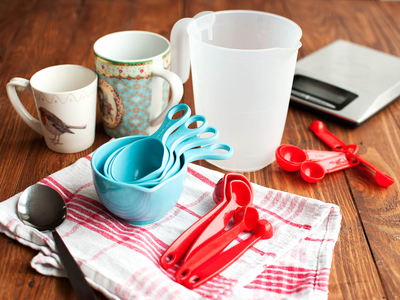
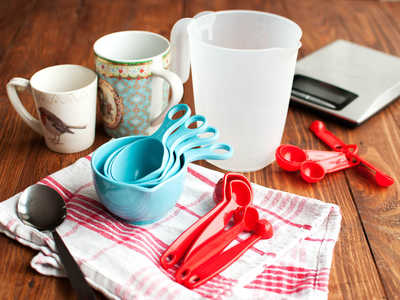
responsive images update

diff --git a/index.html b/index.html
@@ -18,16 +18,17 @@
 </head>
 
 <body>
-  <div class="flex_container">
+  <div class="flex-container">
     <header>
-        <figure class="logo">
+        <figure class="header-photo">
           <img class="big-photo"
-          src="img/pexels-photo.jpg"
-          sizes="(max-width: 500px) 100vw, 80vw"
-          srcset="images/pexels-photo-small.jpg 800w,
-          images/pexels-photo-large.jpg 800w" alt="Laptop keyboard" />
+            src="img/pexels-photo.jpg"
+            sizes="(max-width: 800px) 100vw, 80vw"
+            srcset="images/pexels-photo-medium.jpg 800w,
+                    images/pexels-photo-large.jpg 800w"
+            alt="Laptop keyboard"/>
         </figure>
-        <div class="header_text">
+        <div class="header-text">
           <h1>Judy Zaratan</h1>
           <h5>Full Stack Software Engineer</h5>
         </div>
@@ -45,17 +46,27 @@
       <h2>Featured Work</h2>
       <div class="pictures">
         <figure id="app1"class="app">
-            <img src="images/coffee-small.jpg" alt="Latte cup on table">
+            <img src="img/coffee.jpg"
+            sizes="30vw"
+            srcset="images/coffee-small.jpg 400w,
+                   images/coffee-large.jpg 800w"
+            alt="Latte cup on table">
           <figcaption>Coffee</figcaption>
         </figure>
         <figure id="app2" class="app">
-            <img src="images/bake_measurements-small.jpg" alt="Baking measurement
-            cups and spoons">
+            <img src="img/bake_measurements.jpg"
+            sizes="30vw"
+            srcset="images/bake_measurements-small.jpg 400w,
+                   images/bake_measurements-large.jpg 800w"
+            alt="Baking measurement cups and spoons">
           <figcaption>Bakery</figcaption>
         </figure>
         <figure id="app3" class="app">
-            <img src="images/camera-keys-small.jpg" alt="Vintage camera
-            positioned on piano keys">
+            <img src="img/camera-keys.jpg"
+            sizes="30vw"
+            srcset="images/camera-keys-small.jpg 400w,
+                   images/camera-keys-large.jpg 800w"
+            alt="Vintage camera positioned on piano keys">
           <figcaption>Capture</figcaption>
         </figure>
       </div>
@@ -63,20 +74,20 @@
 
     <section id="about">
       <h2>About Me</h2>
-      <p class="about_text">Lorem ipsum dolor sit amet, consectetur adipiscing elit, sed do
+      <p class="about-text">Lorem ipsum dolor sit amet, consectetur adipiscing elit, sed do
         eiusmod tempor incididunt ut labore et dolore magna aliqua. Ut enimad
         minim veniam, quis nostrud exercitation ullamco laboris nisi ut aliquip
         ex ea commodo consequat. Duis aute irure dolor in reprehenderit in
         voluptate velit esse cillum dolore eu fugiat nulla pariatur. Excepteur
         sint occaecat cupidatat non proident, sunt in culpa qui officia deserunt
-         mollit anim id est laborum.</p>
+        mollit anim id est laborum.</p>
     </section>
 
     <footer id="contact">
       <h2>Contact Me</h2>
-      <div class="social_icons">
+      <div class="social-icons">
         <a class="fa fa-4x fa-linkedin-square" href="#"></a>
-        <a class="fa fa-4x fa-github" href="#"> </a>
+        <a class="fa fa-4x fa-github" href="#"></a>
         <a class="fa fa-4x fa-codepen" href="#"></a>
       </div>
     </footer>

diff --git a/css/styles.css b/css/styles.css
@@ -1,14 +1,14 @@
-
 html, body {
   max-width: 100%;
   max-height: 100%;
-  margin: 0 0 0 0 ;
+  margin: 0;
+  text-align: center;
 }
 
 body {
-    color: #2d3c49;
-    font-family: 'Quicksand', sans-serif;
-    font-weight: 400;
+  color: #2d3c49;
+  font-family: 'Quicksand', sans-serif;
+  font-weight: 400;
 }
 
 img {
@@ -17,12 +17,7 @@ img {
 }
 
 h2, figcaption {
-  text-align: center;
   color: #02b3e4;
-}
-
-nav, footer {
-  text-align: center;
 }
 
 ul {
@@ -34,6 +29,7 @@ ul {
 figcaption > a {
   font-size: 0.5em;
 }
+
 li {
   display: inline;
   padding-right: 10%;
@@ -42,6 +38,7 @@ li {
 li:last-of-type {
   padding-right: 0;
 }
+
 a {
   text-decoration: none;
   color: #2D3C49;
@@ -50,24 +47,22 @@ a {
 a:hover {
   color: #7d97ad;
 }
-
-h5 {
-  margin: 0 0 0 0;
+h1, h5 {
+  margin: .1em 0 .1em 0 ;  
 }
 h1 {
-  margin: 0.1em 0 0.1em 0 ;
+
   color: #02b3e4;
 }
+
 img {
-  margin-right: auto;
+  margin-right: auto;;
   margin-left: auto;
   display: block;
 }
 
-
-.header_text {
+.header-text {
   font-size: 1.2em;
-  text-align: center;
 }
 
 a.fa {
@@ -78,58 +73,69 @@ a.fa:last-of-type{
   margin-right: 0;
 }
 
-.flex_container {
+.flex-container {
   display: flex;
   flex-direction: column;
   flex-wrap: nowrap;
   justify-content: center;
 }
+
 .pictures {
   display: flex;
   flex-wrap: wrap;
   justify-content: center;
 }
+
 .uppercase {
   text-transform: uppercase;
 }
 
+/*Media Queries*/
 @media screen and (max-width: 400px) {
-  .logo {
+  .header-photo {
     margin: 0 auto 0 auto;
   }
+
  .big-photo {
    width: 100%;
  }
+
   .pictures {
     flex-direction: column;
   }
-  .about_text {
+
+  .about-text {
     text-align: justify;
     margin: 0 3em 0 3em;
   }
 }
 
 @media screen and (min-width: 401px) and (max-width: 800px)  {
-  .header_text {
+  .header-text {
     font-size: 1em;
+  }
+
+  .pictures {
+    flex-direction: row;
+    flex-wrap: wrap;
+    justify-content: space-around;
+  }
+
+  .about-text {
+    margin: 0 9em 0 9em;
+  }
+}
+
+@media screen and (min-width: 801px) and (max-width: 1440px) {
+  .header-text {
+    font-size: 2em;
   }
   .pictures {
     flex-direction: row;
     flex-wrap: wrap;
     justify-content: space-around;
-}
-    .about_text {
-      text-align: justify;
-      margin: 0 9em 0 9em;
-    }
-}
-
-@media screen and (min-width: 801px) and (max-width: 1440px) {
-  .header_text {
-    font-size: 2em;
   }
-  .about_text {
-    text-align: justify;
+  .about-text {
     margin: 0 20em 0 20em;
   }
 }

diff --git a/Gruntfile.js b/Gruntfile.js
@@ -20,17 +20,13 @@ module.exports = function(grunt) {
         options: {
           engine: 'im',
           sizes: [{
-            /*
-            Change these:
-
-            width: ,
-            suffix: ,
-            quality:
-            */
-
             name: 'small',
             width: 400,
-            quality: 100
+            quality: 50
+          },{
+            name: 'medium',
+            width: 300,
+            quality: 50
           },{
             name: 'large',
             width: 800,
